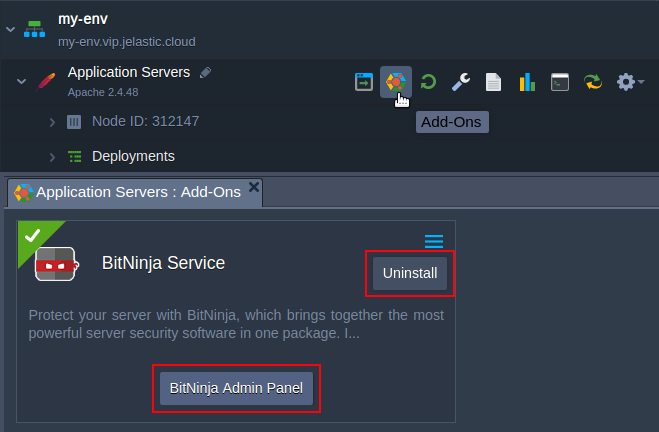
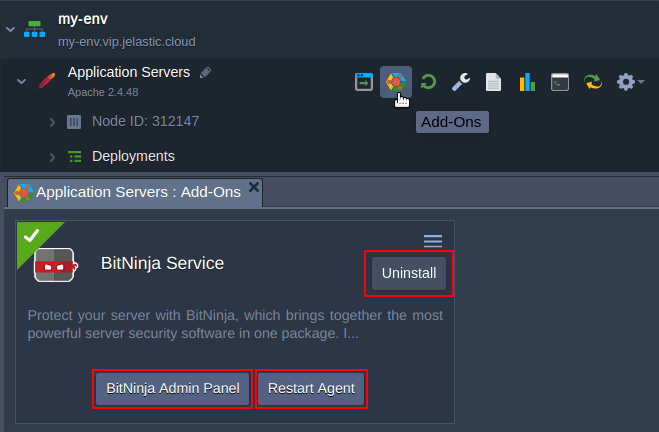
Add-On UI and Readme updated

diff --git a/README.md b/README.md
@@ -40,7 +40,7 @@ Follow the link and set up the password for your account. That's it, your server
 
 ## Addon's Options
 
-Using add-on UI you can either get to the admin console or uninstall the add-on.
+Using add-on UI you can either get to the **Admin Panel**, **Restart Agent** or **Uninstall** the add-on.
 
 <p align="left">
 <img src="images/add-on.png" width="650">
